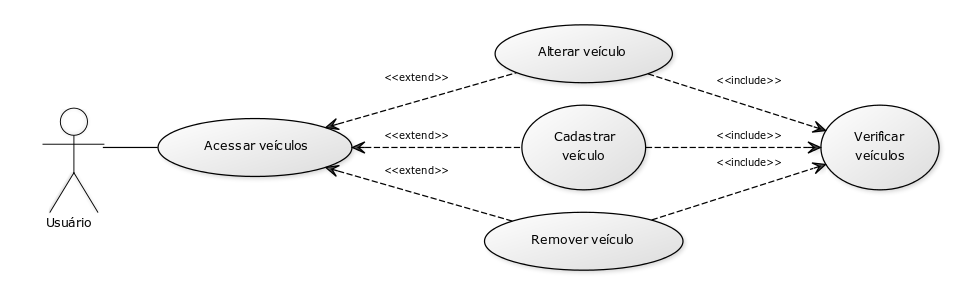
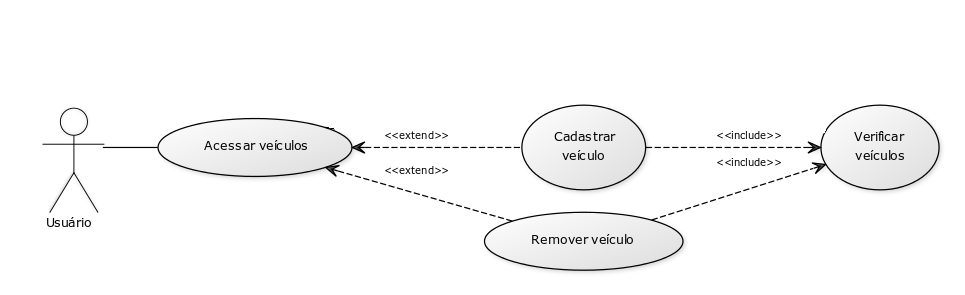
Updating user casediagrams and database diagram

diff --git a/docs/docarquitetura.html b/docs/docarquitetura.html
@@ -179,6 +179,12 @@
                                             <td>Atualizando diagrama relações e pipeline arquitetura</td>
                                             <td>Mateus Roriz</td>
                                         </tr>
+                                        <tr>
+                                            <td>26/11/2018</td>
+                                            <td>0.18</td>
+                                            <td>Atualizando diagramas de caso de uso e diagrama de banco de dados</td>
+                                            <td>Mateus Roriz</td>
+                                        </tr>
                                     </tbody>
                                 </table>
                             </div>
@@ -488,20 +494,6 @@
                                             </div>
                                         </figure>
                                         <figure>
-                                            <div class="diagrama">
-                                                <img class="scaled" src="assets/images/informacoes.png" alt="Informações">
-                                                <figcaption> CarDefense - Ver Informações</figcaption>
-                                                <br>
-                                                <br />
-                                            </div>
-                                        </figure>
-                                        <figure>
-                                            <div class="diagrama">
-                                                <img class="scaled" src="assets/images/extras.png" alt="Extras">
-                                                <figcaption> CarDefense - Extras</figcaption>
-                                                <br>
-                                                <br />
-                                            </div>
                                         </figure>
                                     </div>
                                 </section>
